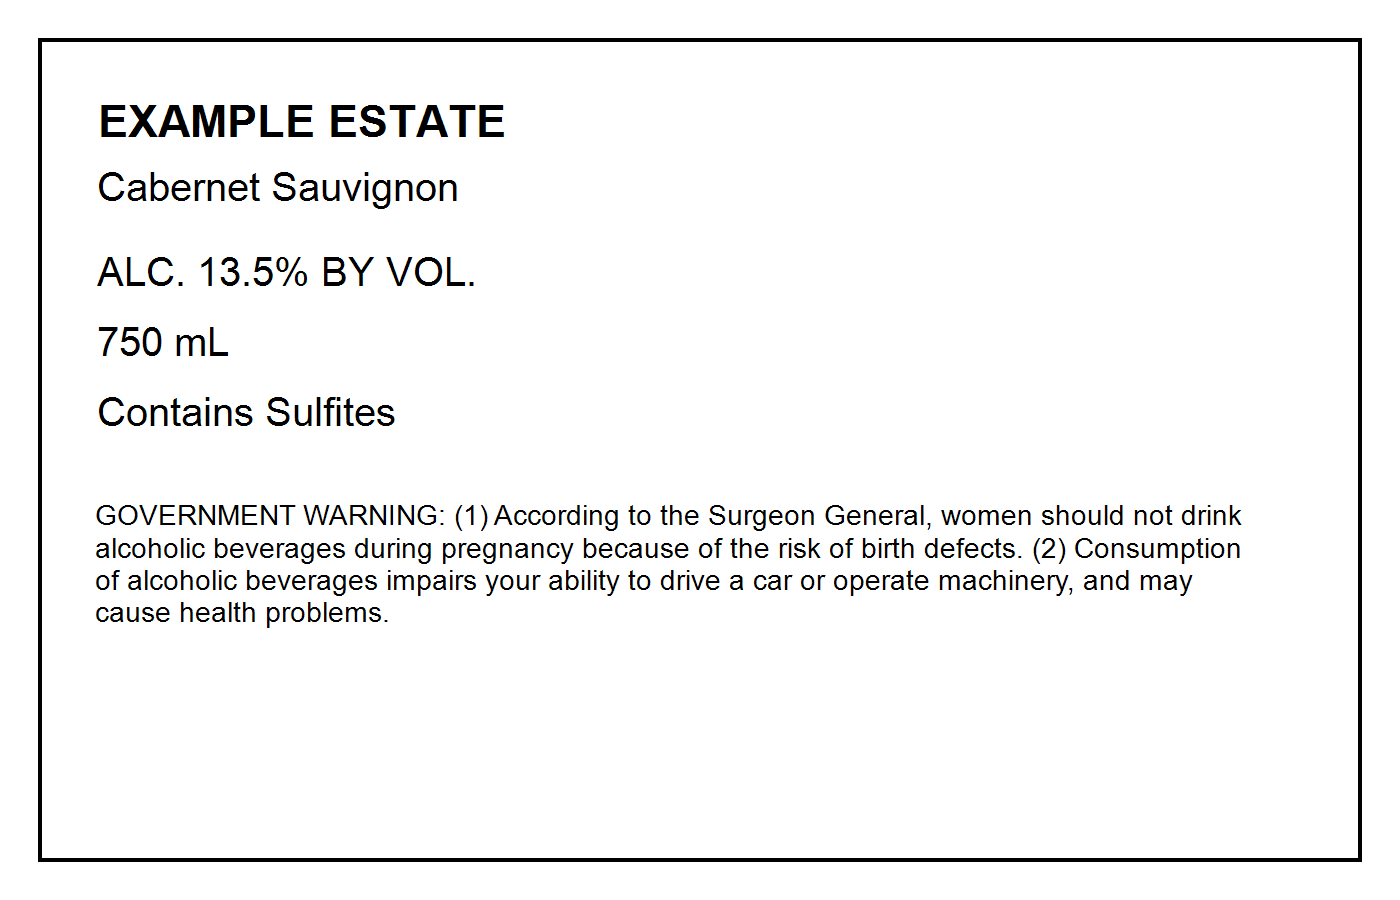
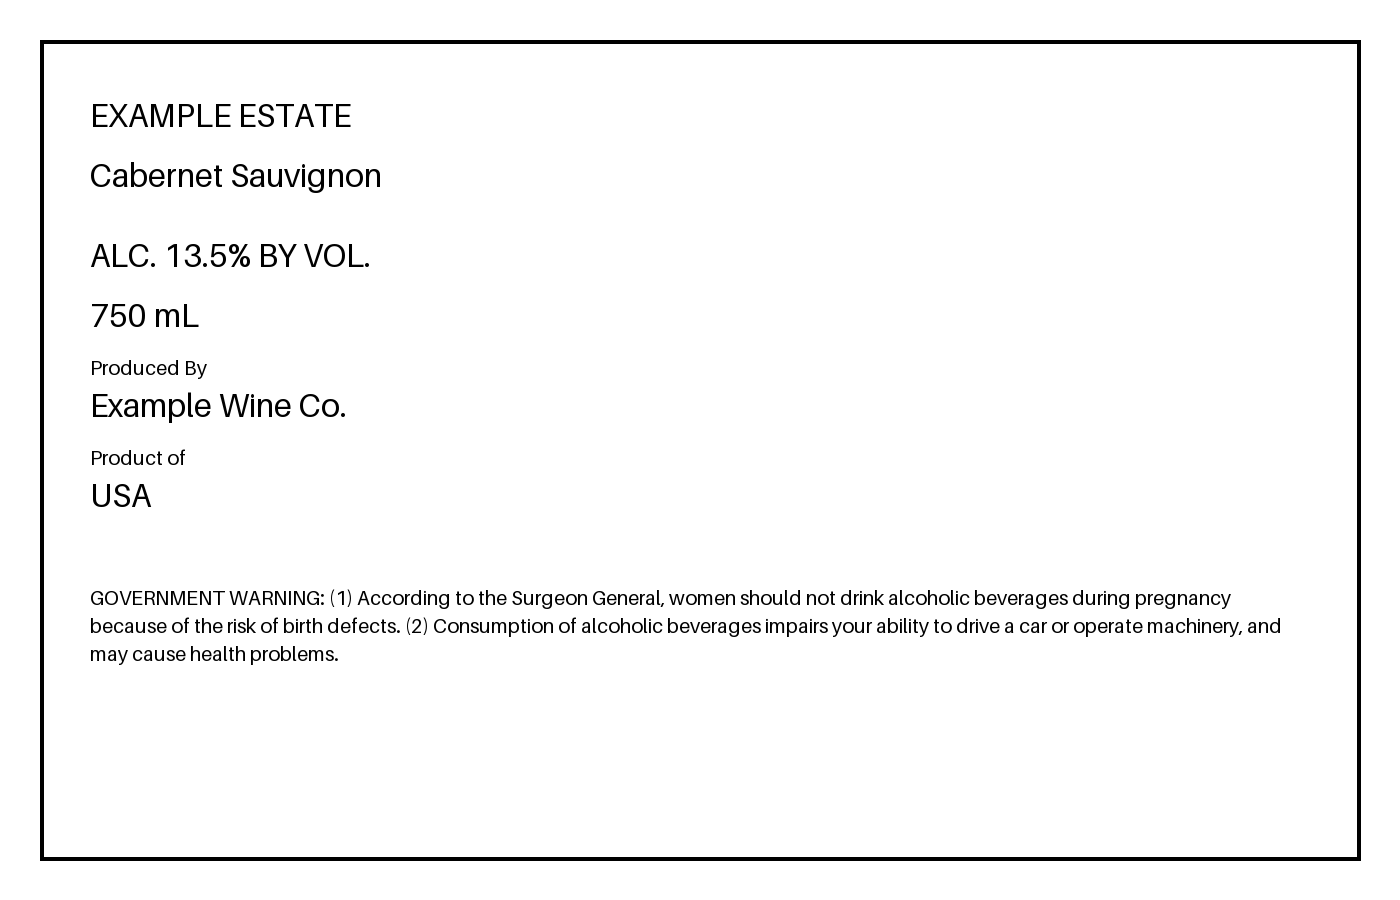
Polish: verbose diagnostics and sample regeneration flags

Changed region(s): [[0.0614, 0.1867, 0.9214, 0.7467], [0.0307, 0.0311, 0.9829, 0.0622], [0.0614, 0.0933, 0.3686, 0.1556]]

diff --git a/scripts/live_demo_check.py b/scripts/live_demo_check.py
@@ -59,6 +59,11 @@ def main() -> int:
         default=30.0,
         help="HTTP timeout in seconds for each request.",
     )
+    parser.add_argument(
+        "--verbose",
+        action="store_true",
+        help="Print compact per-field details for failed checks.",
+    )
     args = parser.parse_args()
 
     try:
@@ -66,6 +71,7 @@ def main() -> int:
             normalize_base_url(args.base_url),
             image_path=args.image,
             timeout_seconds=args.timeout,
+            verbose=args.verbose,
         )
     except Exception as exc:  # pragma: no cover - command-line safety net
         print(f"FAIL live demo check could not run: {exc}", file=sys.stderr)
@@ -92,6 +98,7 @@ def run_checks(
     *,
     image_path: Path = DEFAULT_IMAGE,
     timeout_seconds: float = 30.0,
+    verbose: bool = False,
 ) -> list[CheckResult]:
     image_bytes = image_path.read_bytes()
     imperfect_image_bytes = make_imperfect_image_bytes(image_bytes)
@@ -99,7 +106,7 @@ def run_checks(
     with httpx.Client(timeout=timeout_seconds, follow_redirects=True) as client:
         return [
             check_health(client, base_url),
-            check_single_label(client, base_url, image_bytes),
+            check_single_label(client, base_url, image_bytes, verbose=verbose),
             check_batch_labels(client, base_url, image_bytes, imperfect_image_bytes),
             check_warning_exact_match(client, base_url, image_bytes),
             check_imperfect_image(client, base_url, imperfect_image_bytes),
@@ -123,6 +130,8 @@ def check_single_label(
     client: httpx.Client,
     base_url: str,
     image_bytes: bytes,
+    *,
+    verbose: bool = False,
 ) -> CheckResult:
     started_at = perf_counter()
     try:
@@ -135,6 +144,8 @@ def check_single_label(
     latency_ms = payload.get("latency_ms")
     passed = verdict == "APPROVED" and elapsed_ms < 5000
     detail = f"verdict={verdict}, server_latency_ms={latency_ms}, wall_ms={elapsed_ms}"
+    if verbose and not passed:
+        detail = f"{detail}, fields={format_field_results(payload)}"
     return CheckResult("single label", passed, detail)
 
 
@@ -250,6 +261,25 @@ def find_field(payload: dict[str, Any], field: str) -> dict[str, Any]:
         if item.get("field") == field:
             return item
     return {}
+
+
+def format_field_results(payload: dict[str, Any]) -> str:
+    items = []
+    for item in payload.get("results", []):
+        field = item.get("field")
+        status = item.get("status")
+        expected = compact_value(item.get("expected"))
+        found = compact_value(item.get("found"))
+        items.append(f"{field}:{status} expected={expected} found={found}")
+    return " | ".join(items)
+
+
+def compact_value(value: Any) -> str:
+    text = "null" if value is None else str(value)
+    text = " ".join(text.split())
+    if len(text) > 90:
+        return f"{text[:87]}..."
+    return text
 
 
 def make_imperfect_image_bytes(image_bytes: bytes) -> bytes:

diff --git a/scripts/run_vision_sample.py b/scripts/run_vision_sample.py
@@ -47,9 +47,17 @@ def main() -> int:
         action="store_true",
         help="Use FakeVisionService so the script can run without an API key.",
     )
+    parser.add_argument(
+        "--regenerate-sample",
+        action="store_true",
+        help="Overwrite the default sample label image before running.",
+    )
     args = parser.parse_args()
 
-    image_path = ensure_sample_image(args.image_path)
+    image_path = ensure_sample_image(
+        args.image_path,
+        overwrite=args.regenerate_sample,
+    )
     service: VisionService
     if args.mock:
         service = FakeVisionService(SAMPLE_LABEL)
@@ -64,8 +72,8 @@ def main() -> int:
     return 0
 
 
-def ensure_sample_image(path: Path) -> Path:
-    if path.exists():
+def ensure_sample_image(path: Path, *, overwrite: bool = False) -> Path:
+    if path.exists() and not overwrite:
         return path
 
     if path.name != "sample_label.png":
@@ -90,17 +98,44 @@ def ensure_sample_image(path: Path) -> Path:
     draw.text((90, 155), "Cabernet Sauvignon", fill="black", font=font)
     draw.text((90, 235), "ALC. 13.5% BY VOL.", fill="black", font=font)
     draw.text((90, 295), "750 mL", fill="black", font=font)
-    draw.text((90, 355), "Produced by Example Wine Co.", fill="black", font=font)
-    draw.text((90, 415), "Product of USA", fill="black", font=font)
+    draw.text((90, 355), "Produced By", fill="black", font=small_font)
+    draw.text((90, 385), "Example Wine Co.", fill="black", font=font)
+    draw.text((90, 445), "Product of", fill="black", font=small_font)
+    draw.text((90, 475), "USA", fill="black", font=font)
     draw.multiline_text(
-        (90, 525),
-        GOVERNMENT_WARNING,
+        (90, 585),
+        wrap_text(draw, GOVERNMENT_WARNING, small_font, max_width=1220),
         fill="black",
         font=small_font,
         spacing=8,
     )
     image.save(path)
     return path
+
+
+def wrap_text(
+    draw: ImageDraw.ImageDraw,
+    text: str,
+    font: ImageFont.ImageFont,
+    *,
+    max_width: int,
+) -> str:
+    lines: list[str] = []
+    current = ""
+
+    for word in text.split():
+        candidate = f"{current} {word}".strip()
+        if not current or draw.textlength(candidate, font=font) <= max_width:
+            current = candidate
+            continue
+
+        lines.append(current)
+        current = word
+
+    if current:
+        lines.append(current)
+
+    return "\n".join(lines)
 
 
 if __name__ == "__main__":

diff --git a/README.md b/README.md
@@ -50,6 +50,12 @@ Run without an API key:
 .\.venv\Scripts\python.exe scripts\run_vision_sample.py --mock
 ```
 
+Regenerate the demo sample image if it is missing or stale:
+
+```powershell
+.\.venv\Scripts\python.exe scripts\run_vision_sample.py --mock --regenerate-sample
+```
+
 Run with real extraction:
 
 ```powershell
@@ -106,6 +112,8 @@ After deployment, run the repeatable end-to-end check against the public URL:
 ```powershell
 .\.venv\Scripts\python.exe scripts\live_demo_check.py https://your-app.up.railway.app
 ```
+
+Add `--verbose` to print compact field-level diagnostics for any failed check.
 
 The script verifies:
 
